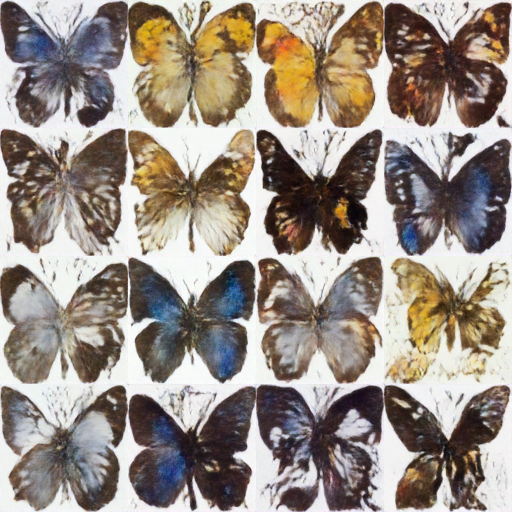
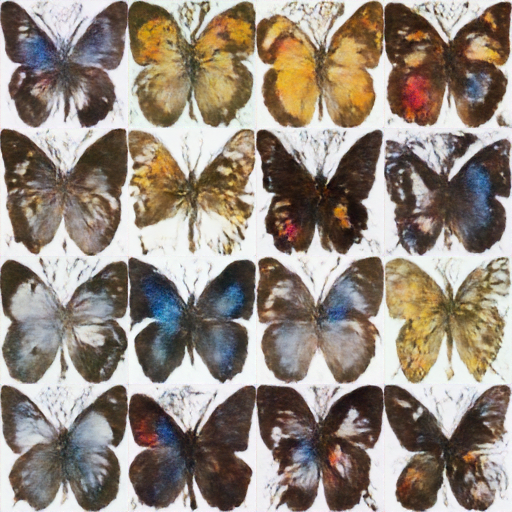
add bf16

diff --git a/train.py b/train.py
@@ -68,7 +68,7 @@ class DDPMPipelineTrainer:
         parser.add_argument("--lr_warmup_steps", type=int, default=500, help="Learning rate warmup steps")
         parser.add_argument("--save_image_epochs", type=int, default=10, help="Save image every n epochs")
         parser.add_argument("--save_model_epochs", type=int, default=30, help="Save model every n epochs")
-        parser.add_argument("--mixed_precision", type=str, default="fp16", help="Choose from no, fp16, bf16 or fp8")
+        parser.add_argument("--mixed_precision", type=str, default="bf16", help="Choose from no, fp16, bf16 or fp8")
         parser.add_argument("--output_dir", type=str, default="ddpm-butterflies-128", help="Output directory")
         parser.add_argument("--push_to_hub", action='store_true', help="Upload the saved model to the HF Hub")
         parser.add_argument("--hub_private_repo", action='store_true', help="Make the HF Hub repo private")
@@ -189,7 +189,7 @@ class DDPMPipelineTrainer:
                 os.makedirs(config.output_dir, exist_ok=True)
             accelerator.init_trackers("train_example")
 
-        flop_counter = FlopCounterMode(model, display=True)
+        flop_counter = FlopCounterMode(display=True)
 
         # Prepare everything
         # There is no specific order to remember, we just need to unpack the
@@ -263,6 +263,7 @@ class DDPMPipelineTrainer:
                     }
                     progress_bar.set_postfix(**logs)
                     accelerator.log(logs, step=global_step)
+                    total_flops = flop_counter.get_total_flops()
                     global_step += 1
                 
                 print(flop_counter.get_table())
